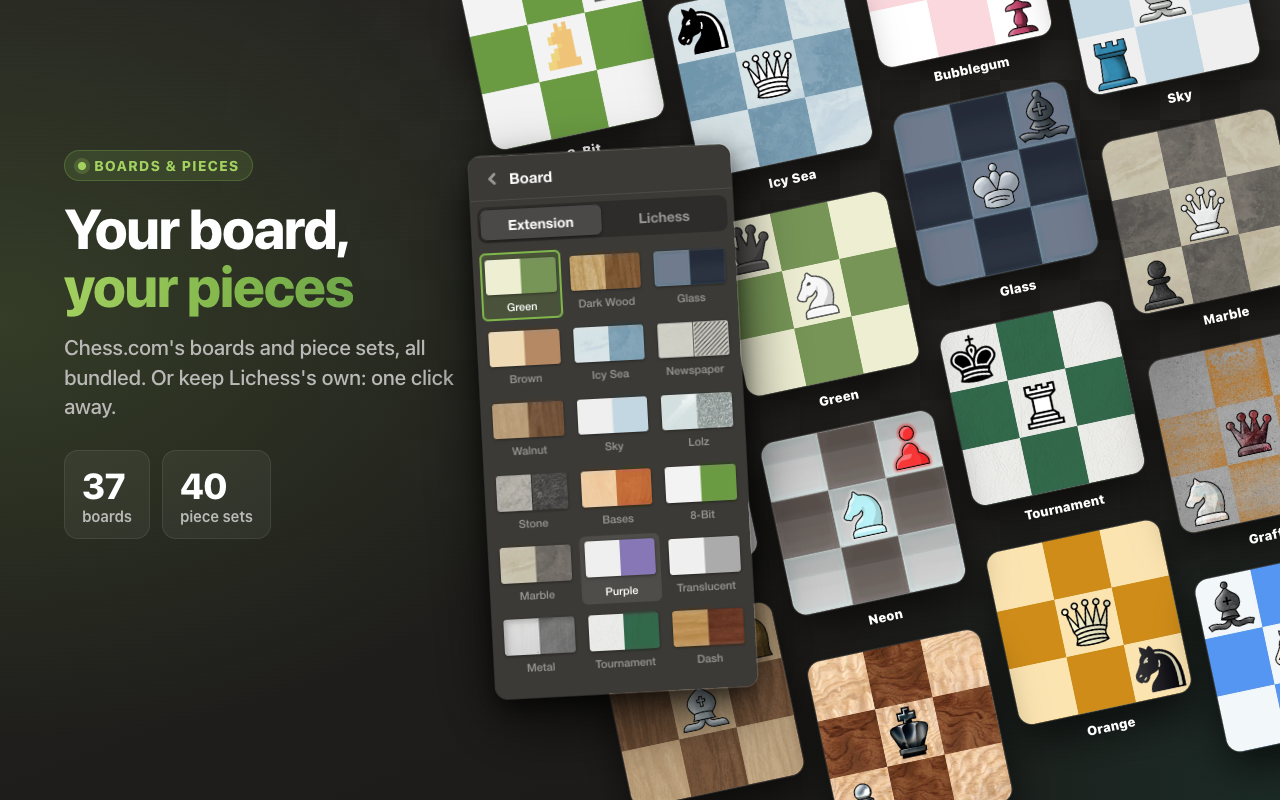
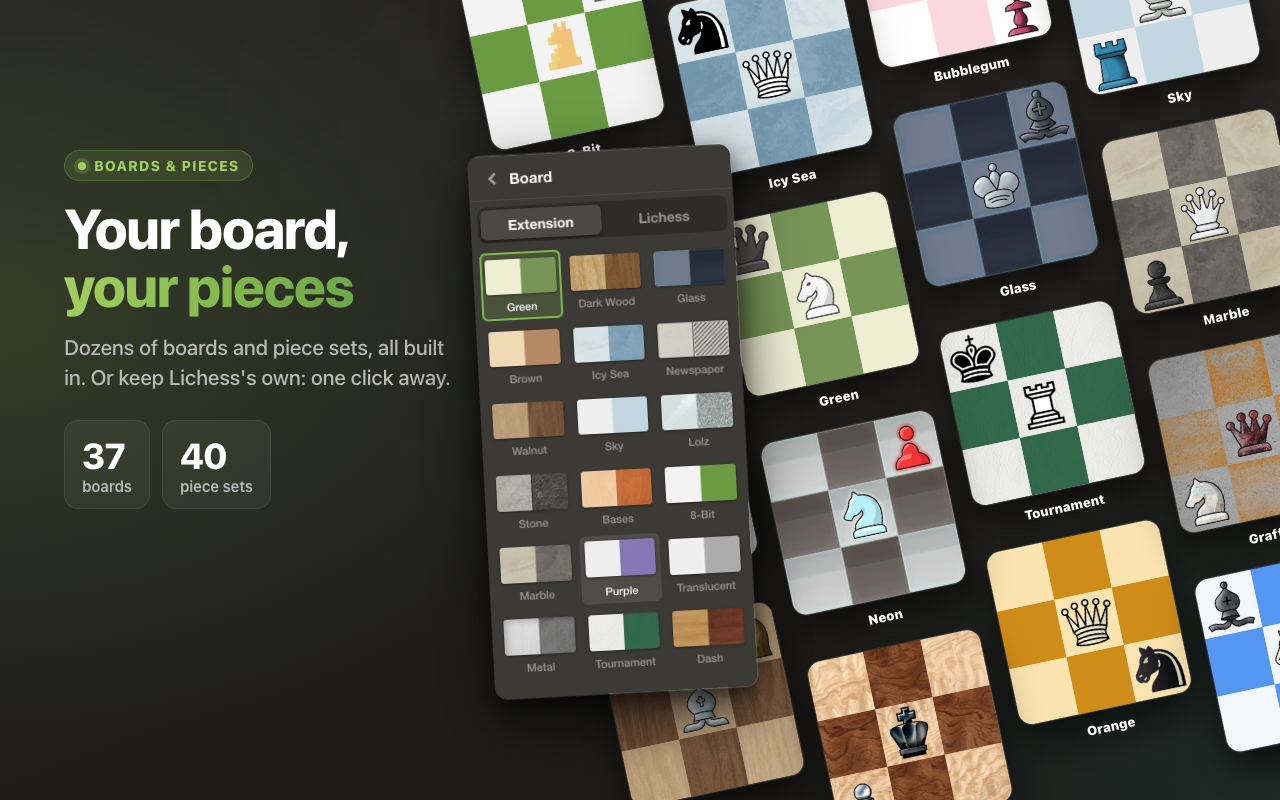
README et visuels du Store : un ton plus neutre
Les accroches disent « the look you know », « familiar sounds » : on devine
d'où vient le look, sans jamais le nommer. La description du manifeste, qui
s'affiche sur le Store, suit.

Changed region(s): [[0.0312, 0.4062, 0.3438, 0.6562]]

diff --git a/tools/store/promo-marquee.html b/tools/store/promo-marquee.html
@@ -88,12 +88,12 @@
 
 <header>
   <span class="brand"><img src="../../icons/icon128.png">LichessDotCom</span>
-  <h1>Lichess, the <em>Chess.com</em> way</h1>
-  <p class="sub">The look, the sounds and the Game Review you know, on free, open-source Lichess.</p>
+  <h1>Lichess, the look <em>you know</em></h1>
+  <p class="sub">The green board, the sounds and the Game Review you're used to, on free, open-source Lichess.</p>
   <div class="tags">
     <span class="chip"><span class="badge" style="--c: #26c2a3">!!</span>Game Review</span>
     <span class="chip"><span class="tile" style="--c: #81b64c"><svg viewBox="0 0 24 24"><path d="M4 4h7v7H4zm9 0h7v7h-7zM4 13h7v7H4zm9 0h7v7h-7z"/></svg></span>37 boards, 40 piece sets</span>
-    <span class="chip"><span class="tile" style="--c: #f7a531"><svg viewBox="0 0 24 24"><path d="M3 9v6h4l5 5V4L7 9H3zm13.5 3A4.5 4.5 0 0 0 14 8v8a4.5 4.5 0 0 0 2.5-4zM14 3.2v2.1a7 7 0 0 1 0 13.4v2.1a9 9 0 0 0 0-17.6z"/></svg></span>Chess.com sounds</span>
+    <span class="chip"><span class="tile" style="--c: #f7a531"><svg viewBox="0 0 24 24"><path d="M3 9v6h4l5 5V4L7 9H3zm13.5 3A4.5 4.5 0 0 0 14 8v8a4.5 4.5 0 0 0 2.5-4zM14 3.2v2.1a7 7 0 0 1 0 13.4v2.1a9 9 0 0 0 0-17.6z"/></svg></span>Familiar sounds</span>
   </div>
 </header>
 

diff --git a/tools/store/1-game.html b/tools/store/1-game.html
@@ -39,8 +39,8 @@
 
 <header>
   <span class="pill"><span class="dot"></span>Free · No ads · Open source</span>
-  <h1>Lichess, the <em>Chess.com</em> way</h1>
-  <p class="sub">The green board, Neo pieces, sounds and layout you know, on Lichess.</p>
+  <h1>Lichess, the look <em>you know</em></h1>
+  <p class="sub">The green board, the pieces, the sounds and the layout you're used to, on Lichess.</p>
 </header>
 
 <div class="window">
@@ -50,7 +50,7 @@
 
 <span class="chip float c1"><span class="tile" style="--c: #81b64c; width: 30px; height: 30px; border-radius: 9px">
   <svg viewBox="0 0 24 24" style="width: 18px; height: 18px"><path d="M3 9v6h4l5 5V4L7 9H3zm13.5 3A4.5 4.5 0 0 0 14 8v8a4.5 4.5 0 0 0 2.5-4zM14 3.2v2.1a7 7 0 0 1 0 13.4v2.1a9 9 0 0 0 0-17.6z"/></svg>
-</span>Chess.com sounds</span>
+</span>Familiar move sounds</span>
 <span class="chip float c2"><span class="tile" style="--c: #26c2a3; width: 30px; height: 30px; border-radius: 9px">
   <svg viewBox="0 0 24 24" style="width: 18px; height: 18px"><path d="M4 4h7v7H4zm9 0h7v7h-7zM4 13h7v7H4zm9 0h7v7h-7z"/></svg>
 </span>A page that never scrolls</span>

diff --git a/tools/store/5-lichess.html b/tools/store/5-lichess.html
@@ -43,7 +43,7 @@
   <p class="sub">Your account, your games, every feature. Only the look and the sounds change.</p>
   <ul class="points">
     <li><span class="tile" style="--c: #81b64c"><svg viewBox="0 0 24 24"><path d="M3 9v6h4l5 5V4L7 9H3zm13.5 3A4.5 4.5 0 0 0 14 8v8a4.5 4.5 0 0 0 2.5-4zM14 3.2v2.1a7 7 0 0 1 0 13.4v2.1a9 9 0 0 0 0-17.6z"/></svg></span>
-      <span>Chess.com's sounds<small>The right one for every move, check and capture</small></span></li>
+      <span>Familiar sounds<small>The right one for every move, check and capture</small></span></li>
     <li><span class="tile" style="--c: #f7a531"><svg viewBox="0 0 24 24"><path d="M12 2a10 10 0 1 0 0 20 10 10 0 0 0 0-20zm-1 15-5-5 1.4-1.4 3.6 3.6 7.6-7.6L20 8z"/></svg></span>
       <span>Nothing to set up<small>Install it, open lichess.org, play</small></span></li>
     <li><span class="tile" style="--c: #749bbf"><svg viewBox="0 0 24 24"><path d="M12 1 3 5v6c0 5.5 3.8 10.7 9 12 5.2-1.3 9-6.5 9-12V5zm0 10.99h7c-.53 4.12-3.28 7.79-7 8.94V12H5V6.3l7-3.11z"/></svg></span>

diff --git a/tools/store/3-boards.html b/tools/store/3-boards.html
@@ -101,7 +101,7 @@
 <header>
   <span class="pill"><span class="dot"></span>Boards &amp; pieces</span>
   <h1>Your board, <em>your pieces</em></h1>
-  <p class="sub">Chess.com's boards and piece sets, all bundled. Or keep Lichess's own: one click away.</p>
+  <p class="sub">Dozens of boards and piece sets, all built in. Or keep Lichess's own: one click away.</p>
   <div class="counts">
     <div class="count"><b>37</b><span>boards</span></div>
     <div class="count"><b>40</b><span>piece sets</span></div>

diff --git a/tools/store/promo-small.html b/tools/store/promo-small.html
@@ -76,7 +76,7 @@
 <div class="brand">
   <img src="../../icons/icon128.png">
   <h2>LichessDotCom</h2>
-  <p>Lichess, the <b>Chess.com</b> way</p>
+  <p>Lichess, the look <b>you know</b></p>
 </div>
 
 <div class="mini">

diff --git a/README.md b/README.md
@@ -1,24 +1,25 @@
 # LichessDotCom
 
-![LichessDotCom: Lichess, the Chess.com way](store/promo-marquee.png)
+![LichessDotCom: Lichess, the look you know](store/promo-marquee.png)
 
-Lichess is free, open source and has no ads. Chess.com is where a lot of us
-learned to play, and its look is hard to give up. This Chrome extension gives
-you both: Lichess, with the green board, the pieces, the sounds and the Game
-Review of Chess.com.
+Lichess is free, open source and has no ads. But if you learned chess on the
+big site with the green board, that's the look you're used to, and Lichess
+feels a little foreign. This Chrome extension brings that look and feel to
+Lichess: the green board, the pieces, the sounds, the layout, and a Game
+Review after every game.
 
 Your Lichess account, your games and your friends don't change. Only the look
 and the sounds do.
 
 ## What you get
 
-### The Chess.com look
+### The look you know
 
 The green board and the Neo pieces, a sidebar on the left, player bars with
 the clocks above and below the board, and one panel on the right for the moves
 and the chat. A game fits on your screen, so there's nothing to scroll.
 
-![A live game with the Chess.com look](store/1-game.png)
+![A live game with the familiar look](store/1-game.png)
 
 ### A Game Review for every game
 
@@ -32,8 +33,9 @@ The engine runs on your own computer, so it's free and there's no daily limit.
 
 ### Your board, your pieces
 
-37 boards and 40 piece sets from Chess.com, or Lichess's own if you'd rather
-keep them. Pick them in the settings menu, at the bottom of the sidebar.
+37 boards and 40 piece sets, the ones you know, or Lichess's own if you'd
+rather keep them. Pick them in the settings menu, at the bottom of the
+sidebar.
 
 ![The boards and piece sets](store/3-boards.png)
 
@@ -73,10 +75,9 @@ Lichess tab. If you cloned it with git, a `git pull` does the same.
 
 - It's made for computers. In a narrow window or on a tablet you get Lichess's
   usual mobile layout, with the new colors, board and pieces.
-- The sounds are downloaded from Chess.com the first time they're needed.
+- The sounds are downloaded the first time they're needed, then kept.
 - Nothing is tracked or collected.
-- This project isn't affiliated with Chess.com or Lichess. Chess.com's name,
-  pieces and sounds belong to Chess.com.
+- This project isn't affiliated with Lichess.
 
 Curious how it's built? [AGENTS.md](AGENTS.md) has the technical side.
 
